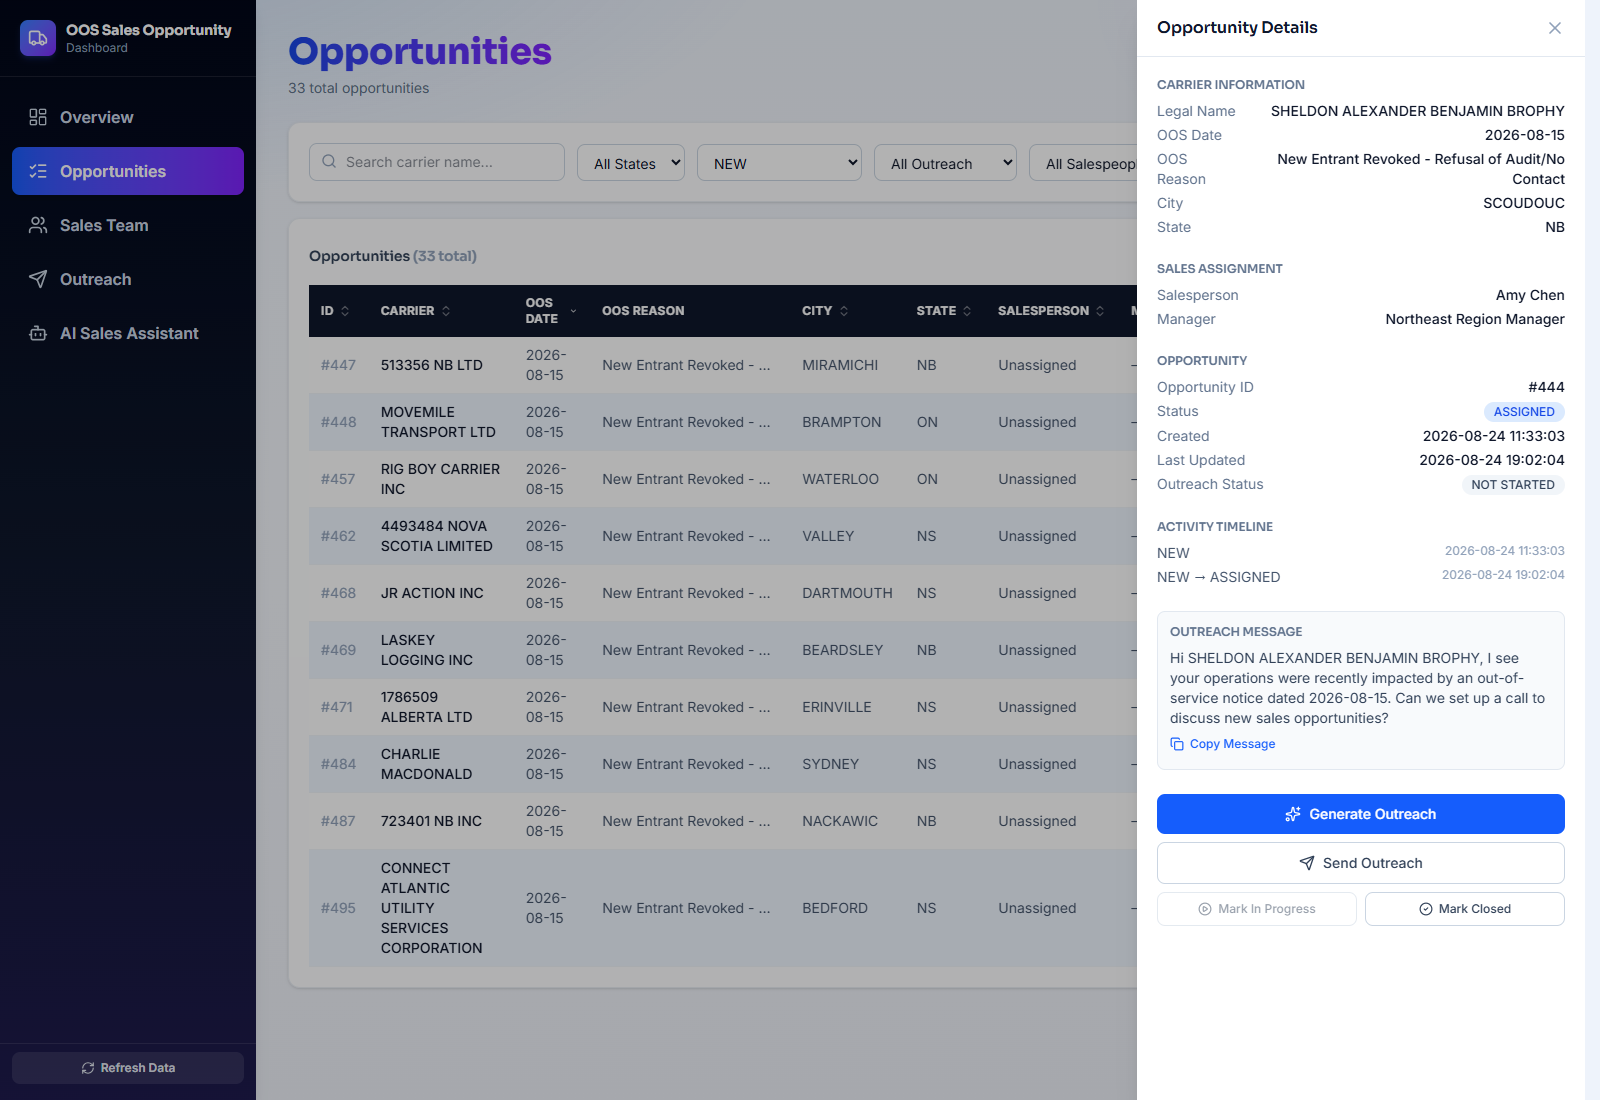
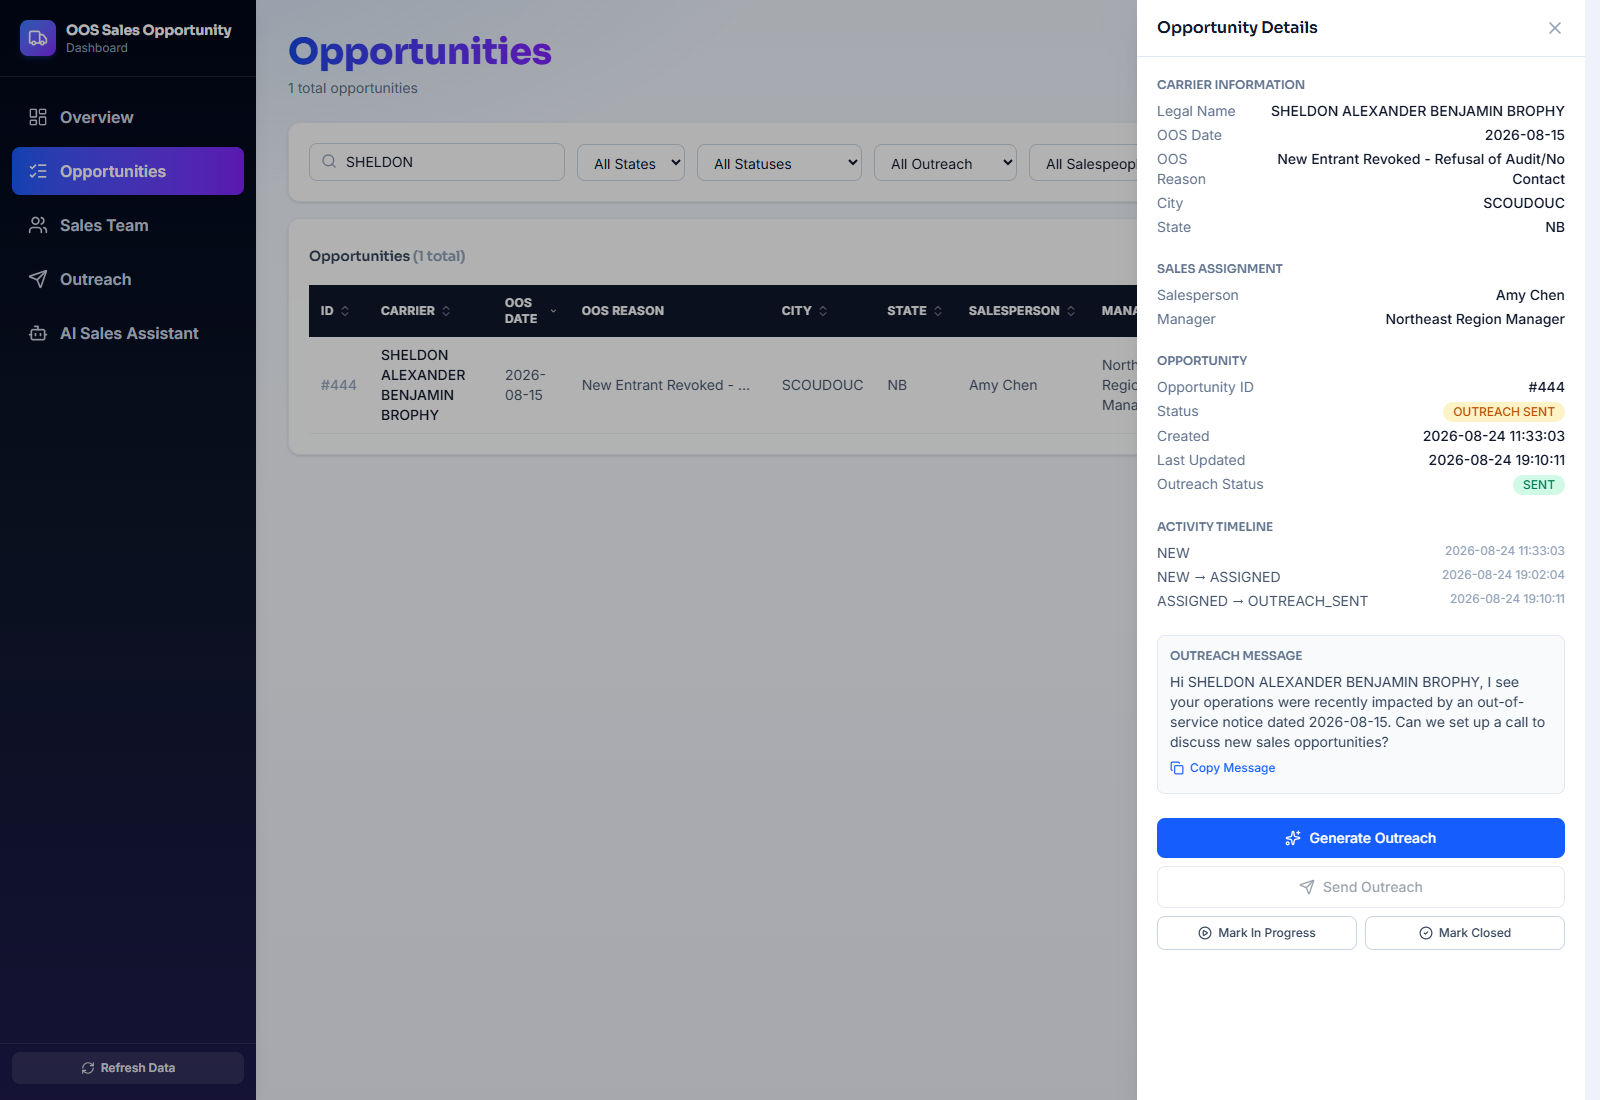
Fix confusing screenshot backgrounds and add Assign Salesperson shot
Both drawer screenshots now use the search filter (not a status filter)
so the background list always shows the same opportunity the drawer is
displaying, instead of a filtered list the drawer's carrier had already
dropped out of. Also adds a dedicated Assign Salesperson screenshot,
since the existing generate-outreach shot already showed a later stage.

diff --git a/README.md b/README.md
@@ -24,8 +24,11 @@ plus an AI assistant grounded on the live data via an Azure AI Foundry agent.
 **AI Sales Assistant** — chat grounded on the live data via an Azure AI Foundry agent
 ![AI Sales Assistant](docs/screenshots/assistant.png)
 
-**Opportunity workflow** — assign a salesperson, then generate outreach via the Foundry agent
-![Assign and generate outreach](docs/screenshots/drawer-4-generated.png)
+**Assign Salesperson** — an unassigned opportunity, ready to route to the rep for its state
+![Assign Salesperson](docs/screenshots/drawer-assign-prompt.png)
+
+**Generate Outreach** — a different opportunity, already assigned, after generating outreach via the Foundry agent (status has since progressed to Outreach Sent)
+![Generate outreach](docs/screenshots/drawer-4-generated.png)
 
 **Real outreach email** — actually delivered by the Send Outreach action (sender address cropped)
 ![Outreach email received](docs/screenshots/outreach-email-received.png)
